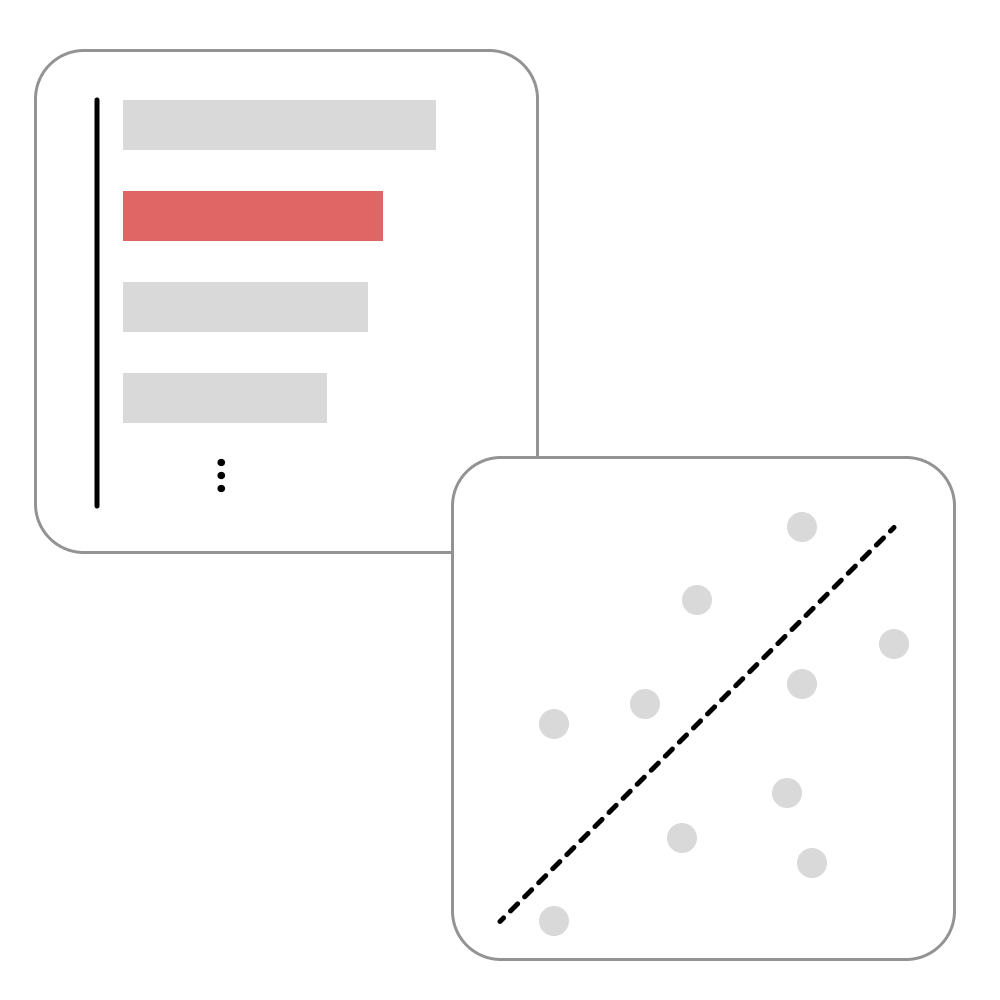
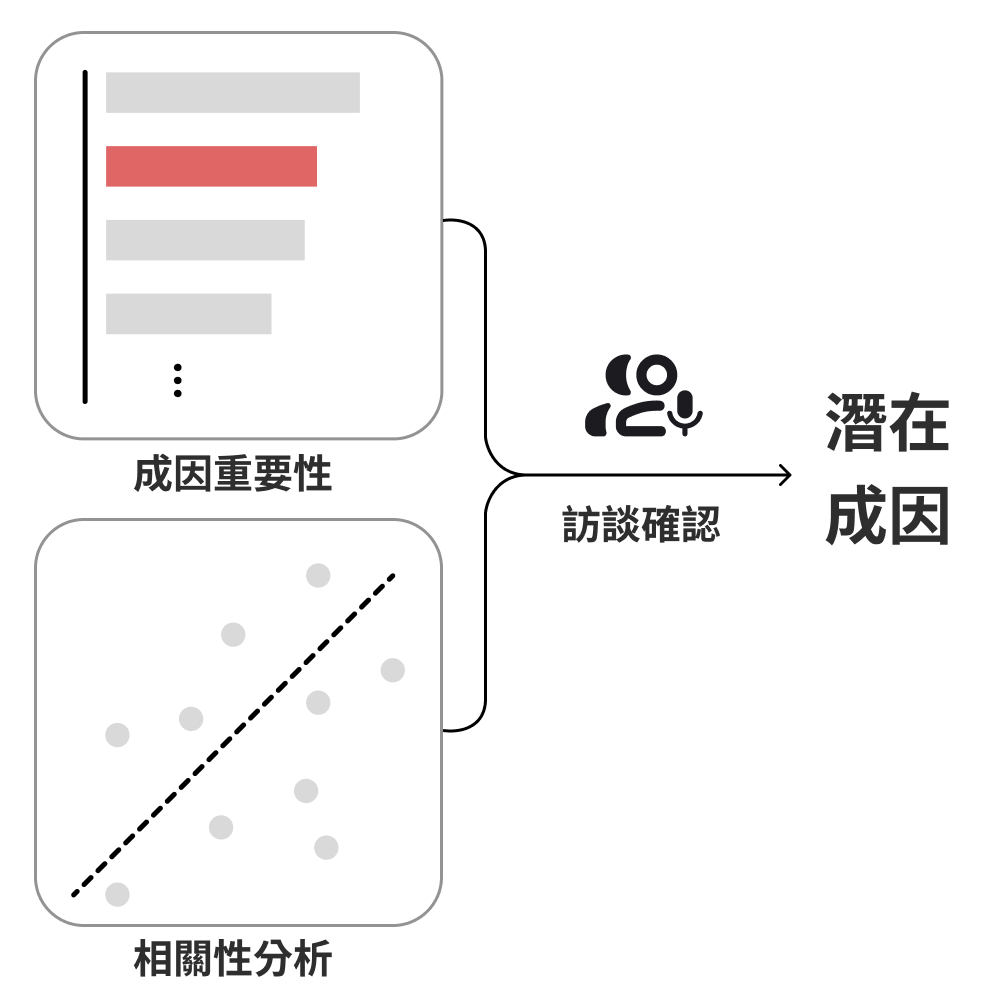
Revised_first_3_pages

diff --git a/src/assets/lang/ch.js b/src/assets/lang/ch.js
@@ -39,8 +39,10 @@ export const ch = {
 		text1: "從新聞報導辨識出天坑容易，但在原始資料中並無特定欄位註明案件是否為天坑。因此在前期案件辨識上，需透過其他方式定義目標案件。",
 		text2: "2019-2023年之案件紀錄中，先由新工處進行第一層案件類型篩選，去除較不相干的道路損壞類型，再由臺北大數據中心透過派工說明欄位內容之關鍵字定義案件，並人工查看案件照片進行標記。這些案件為標記掏空案件，也是本次研究的重點。",
 		text3: "為了避免將同一案件會有重複報案的情形納入計算，相關案件也先經去重複處理，才進入本案比較與分析範圍。而由於天坑與掏空有密切關聯，後續研究將以「標記掏空案件」稱呼。",
-		captiontitle5: "關鍵字篩選與人工標記",
-		captiontext5:"損壞說明或派工說明包含「掏空、塌陷、坍塌、交維、交圍、下陷」",
+		"captiontitle4-1": "關鍵字篩選與人工標記",
+		"captiontext4-1": "損壞說明或派工說明包含「掏空、塌陷、坍塌、交維、交圍、下陷」，並以案件照片辨識，已有明顯坑洞者標記為2。",
+		"captiontitle4-2": "描述性分析",
+		"captiontext4-2": "透過比對了解樣本分佈狀況與彼此落差之處",
 	},
 	"overview-2": {
 		title: "潛在成因怎麼看",
@@ -55,9 +57,9 @@ export const ch = {
 		"captiontext4-2": "確認各變因相關係數，越接近1則代表越相關",
 	},
 	"overview-3": {
-		title: "判別標準與綜整",
+		title: "認定標準與綜整",
 		maintitle: "時間以相關性查看，空間看描述性",
-		subtitle: "判定潛在成因標準？",
+		subtitle: "怎麼認定潛在成因？",
 		text1: "道路掏空塌陷難以直接歸咎於單一成因，但透過此次分析，可協助未來針對重要變因研究相關機制，減少道路掏空塌陷帶來的損失與傷亡。",
 		text2: "時間分析以月為單位，統計掏空案件數量以及其他各項成因數值進行分析。若相關性接近中度相關或模型成因重要性前五名，綜合機關訪談回饋後則認定為潛在成因。",
 		"captiontitle3-1": "以月為單位進行分析",

diff --git a/src/assets/articles.js b/src/assets/articles.js
@@ -5,7 +5,7 @@ export const articles = [
 		title: "overview-1",
 		icon: "adjust",
 		isCause: true,
-		content: ["text", "text", "text", "img", "caption"],
+		content: ["text", "text", "text", "dbimgcaption"],
 	},
 	{
 		section: "overview",
